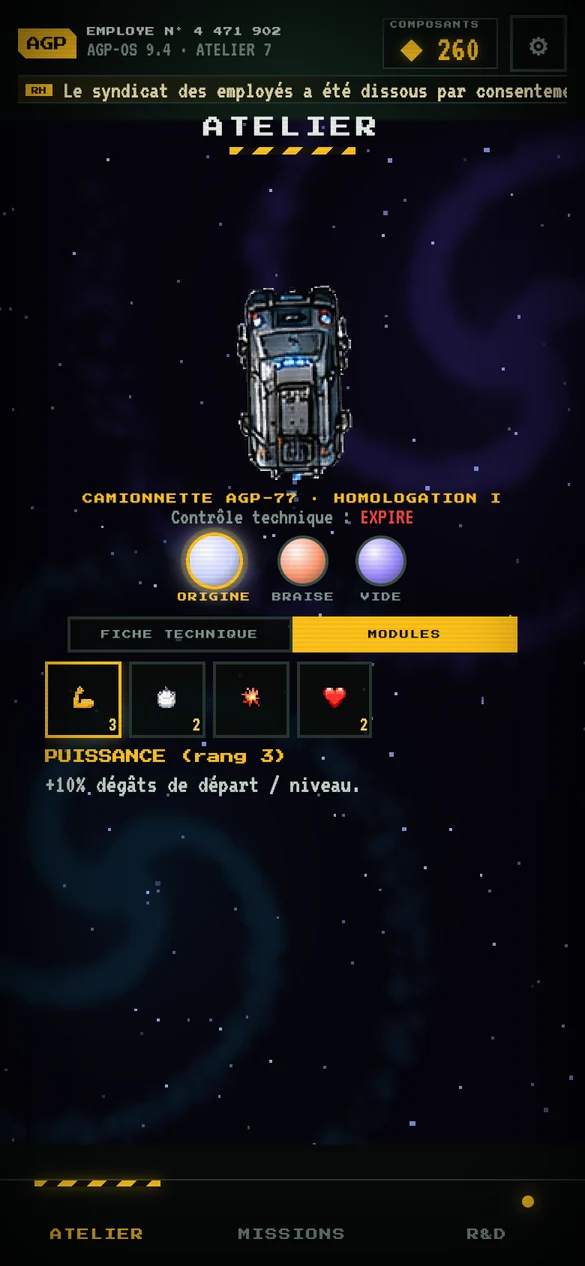
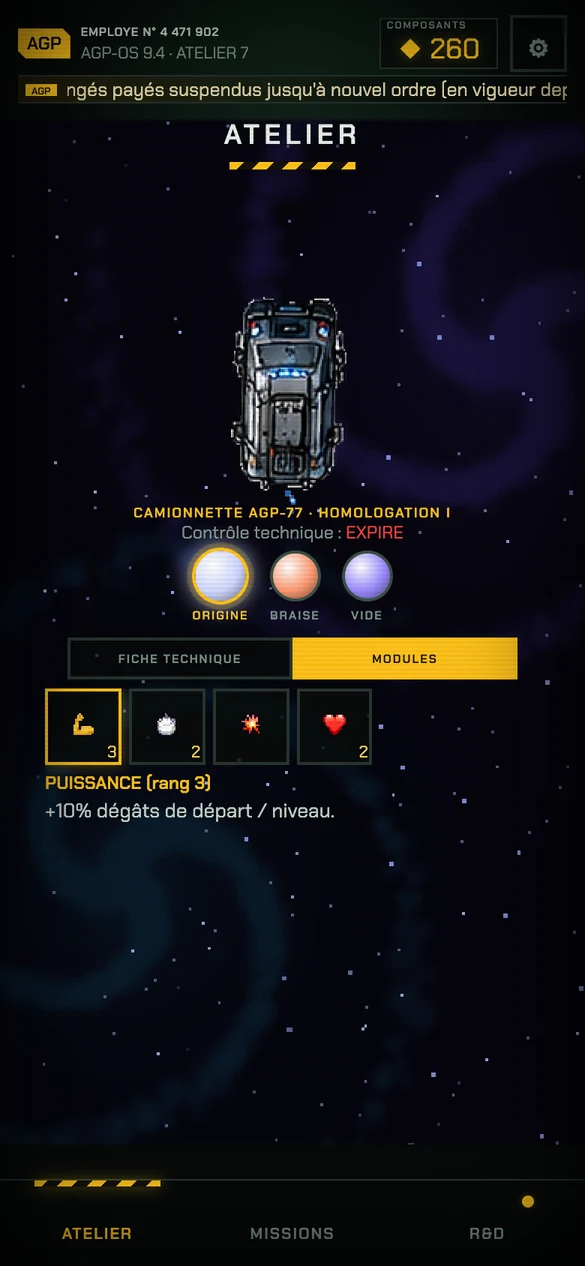
AGP : captures et doc recalées sur la nouvelle typographie

diff --git a/docs/direction-artistique-agp.md b/docs/direction-artistique-agp.md
@@ -18,7 +18,7 @@ Branche : `direction-agp` (l'ancienne interface reste sur `main`). Aucune mécan
 | Papier `#e9e2c8` + encre `#1c211d` | documents imprimés | rapport d'intervention |
 | Graphite `#070a09` | fond | partout |
 
-**Typographie** (les deux polices déjà dans le jeu, hiérarchie nouvelle) : *Press Start 2P* 5-12 px, majuscules, espacées, pour les **étiquettes et titres** (« OBJECTIF », « RISQUE ») · *VT323* 15-24 px pour les **valeurs et le texte** (ce qu'on lit vraiment).
+**Typographie** (celle du jeu, définie dans `style.css` : *Jersey 15* pour le logo et les gros titres, *Chakra Petch* pour le reste) : *SSX Label* (Chakra Petch 600) 5-12 px, majuscules espacées, pour les **étiquettes et titres** (« OBJECTIF », « RISQUE ») · *SSX Text* (Chakra Petch 400) 15-24 px pour les **valeurs et le texte** (ce qu'on lit vraiment).
 **Motifs** : rayures de chantier jaune/noir (séparateurs, onglet actif, bouton, bandeau d'incident) · lignes de formulaire pointillées · coins de cadre · tampon · papier listing à perforations · curseur de terminal.
 **Ton** : l'humour est dans les *détails* (contrôle technique « EXPIRÉ », « ASSURANCE DOMMAGES 0 % », département « Physique fondamentale — 1 stagiaire »), jamais dans la mise en page : tout reste lisible.
 
@@ -127,5 +127,5 @@ Tests mis à jour (nouveaux libellés) : `home_test.py`, `level_test.py`, `smoke
 
 ## 11. À retenir pour la suite
 - La **lisibilité en combat** passe avant : toute nouvelle info va dans la bande du haut et reste semi-transparente.
-- Les textes accentués sont en VT323 ; les titres en Press Start sont **sans accents** (convention du jeu).
+- Les titres en majuscules sont écrits **sans accents** (convention du jeu) ; le texte courant peut en avoir.
 - Ajouter un secteur = ajouter ses lignes dans `AGP_LORE.files` (dossier, note de service) ; sans entrée, une note par type d'ordre est utilisée.
